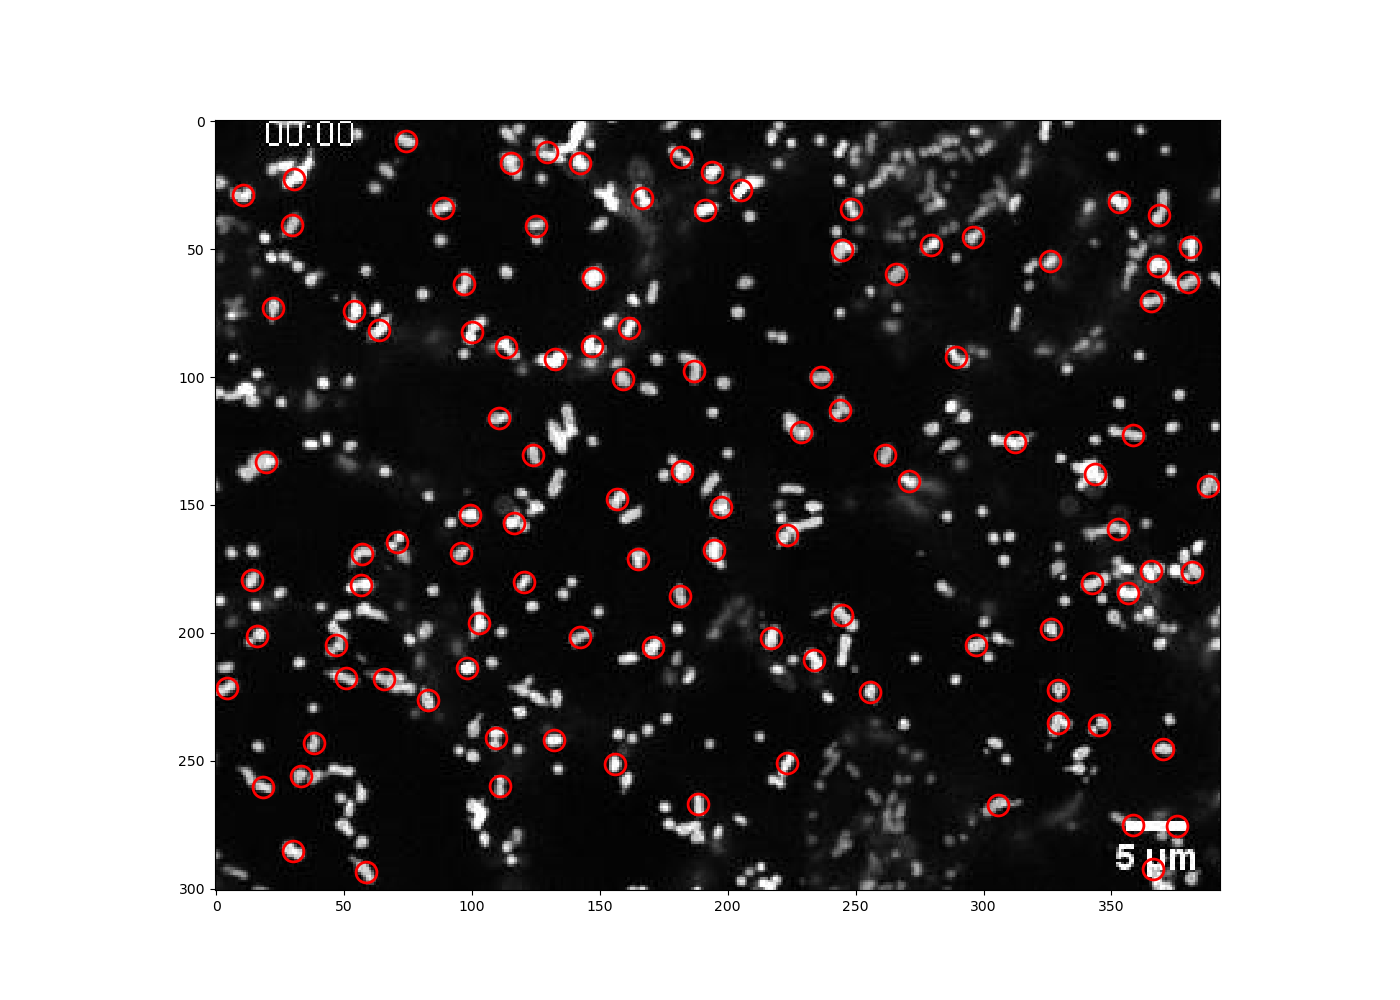
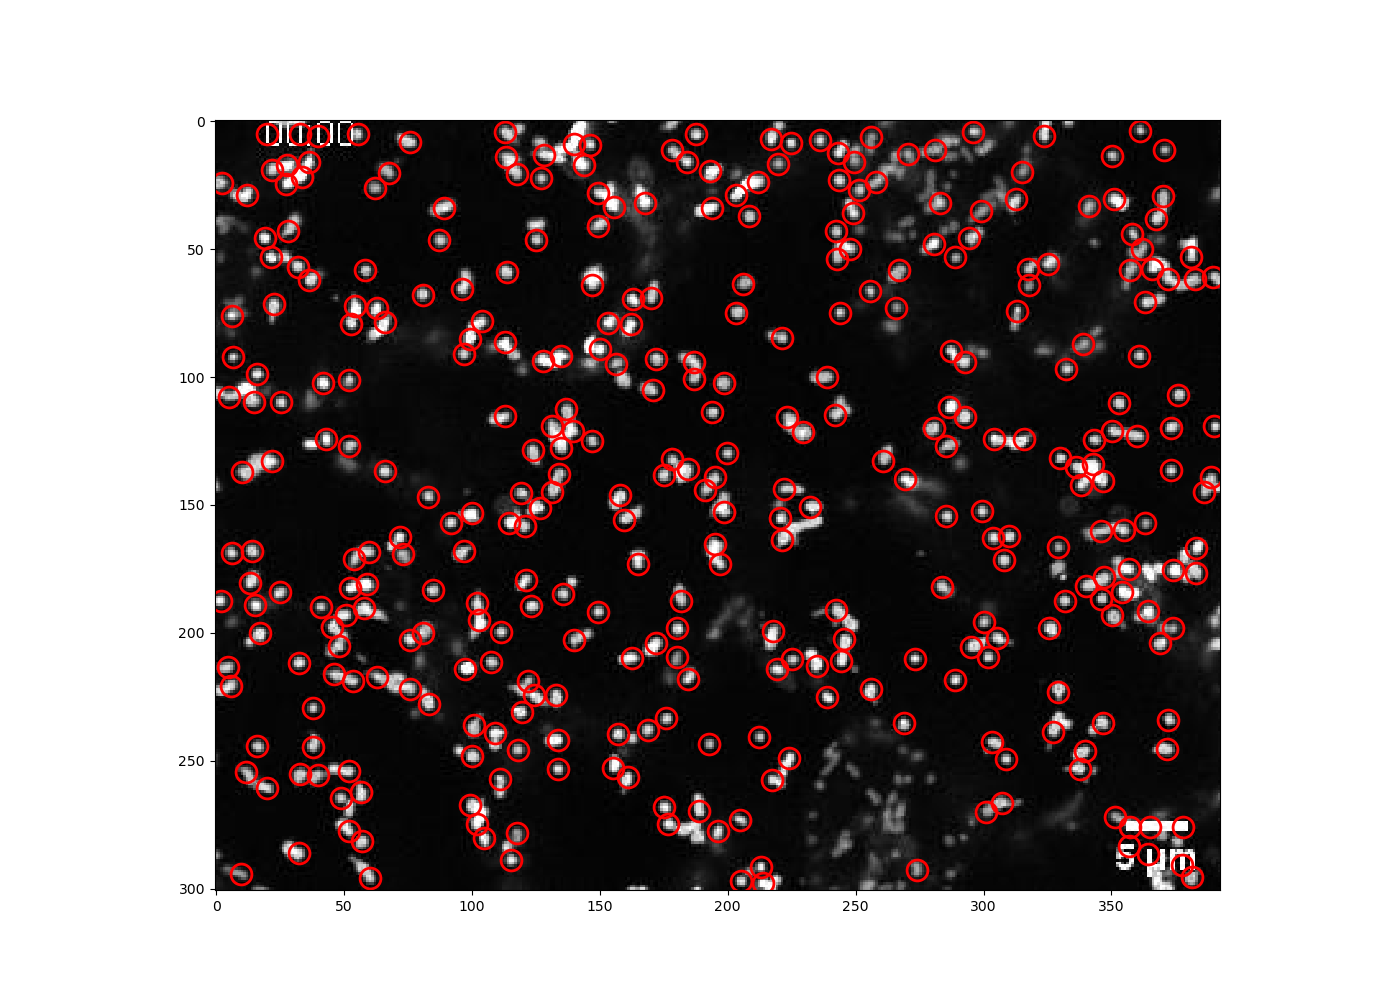
add minmass param-tunning (DONE)

diff --git a/BachelorArbeitVorlage/Kapitel/Kapitel-1/kapitel_1.tex b/BachelorArbeitVorlage/Kapitel/Kapitel-1/kapitel_1.tex
@@ -51,7 +51,7 @@ Dieser verfügt über eine reihe von Parametern, anhand derer die Qualität der 
 %    			\item maxsize: float\\
 %    			Maximaler Gyrationsradius der Helligkeit.
     			\item separation: float\\
-    			Minimaler Abstand zwischen den Partikeln.    			
+    			Minimaler Abstand zwischen den Partikeln. Der Standardwert ist \textit{diameter + 1}   			
     			\item noise\_size: float or tuple\\
     			Breite des Gaußschen Unschärfekerns, in Pixeln. Der Standardwert ist 1.
     			\item topn: interger\\
@@ -139,7 +139,7 @@ Tatsächlich lassen sich insgesamt 475 Partikeln finden, von denen ca. 121 unerw
 %    			Insgesamt lassen sich 207 Partikeln finden, von denen 22 unerwünscht waren  und 91 fehlten. Dies entspricht einer ungefähren Rate von 10,628\% für die unerwünschten und einer Rate von 43,9617\% für die nicht gefundenen.
 
     			
-    			\item \textbf{locate(f, d, minmass)}:\\ \\
+    			\item {\Large \textbf{locate(f, d, minmass)}}:\\ \\
 %    			Da ca. nur 10\% der letzten Suche unerwünschte Elemente waren, wird den Durchschnitt der \textit{minmass} aller Teilchen berechnet und als \textit{minmass} verwendet. Aus der vorherigen \textsc{Panda.Dataframe} genügt es den Mittelwert aus den Werten der \textit{mass}-Spalte zu berechnen, um auf \textit{minmass} von ca. 2490.21 zu gelangen. Das Resultat wird dann wie folgt aussehen:
 Wie bereits erwähnt, spiegelt \textit{minmass} die inhärente und eingebaute minimale Helligkeit jedes lokalisierten Partikels wider. Das Ziel ist es nun, die zuvor ermittelten, zu dunklen Partikel herauszufiltern. Daher ist es notwendig, methodisch mit dem Parameter \textit{minmass} zu spielen, um dieses Ziel zu erreichen. Es gibt natürlich mehrere Möglichkeiten, den optimalen Wert für die gesuchte Parameter zu finden. Allerdings wird hier die folgende Logik verfolgt:\\
 
@@ -149,14 +149,14 @@ Dies würde dazu führen, dass unsere dunkelsten Partikel am Ende der Liste (Tab
 
 \begin{figure}[H]
     \centering
-    \includegraphics[scale=0.35]{Grafiken/trackpyBilder/df_initial.png}
+    \includegraphics[scale=0.45]{Grafiken/trackpyBilder/df_initial.png}
     \caption{Ein Teil des initialen Dataframes}
     %\label{fig:bild_label}
 \end{figure}
 
 \begin{figure}[H]
     \centering
-    \includegraphics[scale=0.35]{Grafiken/trackpyBilder/df_sorted.png}
+    \includegraphics[scale=0.45]{Grafiken/trackpyBilder/df_sorted.png}
     \caption{Ein Teil des sortierten Dataframes}
     %\label{fig:bild_label}
 \end{figure}
@@ -166,7 +166,7 @@ Die Aufrufe sähen dann wie folgt aus:\\
 \texttt{dataframe.head(354)} \\
 \texttt{min(dataframe['mass'])}\\
 
-\textbf{189.7280490025089} ist hier das Ergebnis der vorherigen Vorgänge und damit auch den minimalen Wert von \textit{mass}, den ein Partikel haben muss. Es sei der \textit{minmass} Parameter der Funktion \textit{locate()}.
+\textbf{189.72805} ist hier das Ergebnis der vorherigen Vorgänge und damit auch den minimalen Wert von \textit{mass}, den ein Partikel haben muss. Es sei der \textit{minmass} Parameter der Funktion \textit{locate()}.
 
 
 
@@ -174,12 +174,67 @@ Die Aufrufe sähen dann wie folgt aus:\\
 \begin{figure}[H]
     \centering
     \includegraphics[scale=0.35]{Grafiken/trackpyBilder/locate_with_minmass_01.png}
-    \caption{locate with 'mimass=189.7280490025089'}
+    \caption{locate with 'mimass=189.72805'}
     %\label{fig:bild_label}
 \end{figure}
 
-		\item locate(frames[0], 11, minmass=1000.0, separation=2, noise\_size=1.5): \\ \\
-    			Hier wird es einfach Werte bei \textit{separtion} und \textit{noise\_size} ausprobiert, um auf die bessere Resultate zu kommen. Dies ergibt in diesem Fall:
+Aus diesem Bild geht hervor, dass fast alle gewünschten Partikel lokalisiert bleiben. Allerdings werden einige von ihnen doppelt gezählt, was Gegenstand der Verwendung anderer Parameter sein wird. Dennoch gibt es noch einige Partikel, die nicht lokalisiert werden sollten. Es handelt sich dabei um etwa 12 Teilchen. Es wäre daher ratsam, die \textit{minmass} schrittweise zu erhöhen, bis ein zufriedenstellendes Ergebnis erzielt wird.\\
+Zum Festlegen des Wertes, der in jedem Schritt verwendet werden soll, schauen Sie in der Tabelle (Dataframe), die mit \textit{dataframe.sort\_vaules(by=['mass'], ascending=False}) erstellt wurde, beginnend mit der 121. Zeile von unten nach oben.(121. Zeile entspricht der Anzahl der Teilchen mit geringer Helligkeit)
+
+\begin{figure}[H]
+    \centering
+    \includegraphics[scale=0.55]{Grafiken/trackpyBilder/df\_steps.png}
+    \caption{Sortierte Tabelle}
+    %\label{fig:bild_label}
+\end{figure}
+
+So werden nach und nach die Werte 197,1016 (d. h. 197), 197,6688 (d. h. 198) und so weiter verwendet.\\
+Die Verwendung der Funktion \texttt{locate(frames[0], 5, \textbf{minmass=197})} ergibt so gut wie keine Änderung der Lokalisierung. Da insgesamt immer noch 353 Partikel  erkannt wurde. Daher wird sich der nächste Versuch mit dem folgenden Wert beschäftigen. Genauer gesagt "minmass = 198". \\
+Auch hier wurden nur zwei Teilchen weniger gefunden. Das sind insgesamt 351 Partikel. Obwohl es fast unmöglich ist, diese beiden Teilchen auf dem Bild zu erkennen. 
+Es wäre klug, den nächsten Wert unserer Tabelle zu nehmen, der derzeit bei 203,6244 (also 204) liegt, und erneut zu versuchen, eine Lokalisierung durchzuführen. (Siehe )
+
+\begin{figure}[H]
+    \centering
+    \includegraphics[scale=0.35]{Grafiken/trackpyBilder/locate_with_minmass_02.png}
+    \caption{locate with 'mimass=197'}
+    %\label{fig:bild_label}
+\end{figure}
+
+
+\begin{figure}[H]
+    \centering
+    \includegraphics[scale=0.35]{Grafiken/trackpyBilder/locate_with_minmass_04(204).png}
+    \caption{locate with 'mimass=204'}
+    %\label{fig:bild_label}
+\end{figure}
+
+Bei der Verfolgung dieser Logik kommt es hier schnell auf einen \textit{minmass} Wert von \textbf{210}.\\
+Wo es deutlich zu erkennen ist, dass weitere unerwünschte Partikel nicht mit erkannt wurde. Es wurde insgesamt hier \textbf{345} Partikel gefunden. Jedoch muss es festgestellt werden, dass ab \textbf{211} nach oben, werden zwar weniger unerwünschte Partikel gefangen, aber auch erwünschte. 
+Wie es die Veranschaulichung auf Bild (Bild 212)zeigt. 
+Deswegen wird es dem weiteren  den Parameter  \textbf{Separation} gewidmet, um weitere unerwünschte zu eliminieren.
+
+\begin{figure}[H]
+    \centering
+    \includegraphics[scale=0.35]{Grafiken/trackpyBilder/locate_with_minmass_07(210).png}
+    \caption{locate with 'mimass=210'}
+    %\label{fig:bild_label}
+\end{figure}
+
+
+\begin{figure}[H]
+    \centering
+    \includegraphics[scale=0.35]{Grafiken/trackpyBilder/locate_with_minmass_08(212).png}
+    \caption{locate with 'mimass=212'}
+    %\label{fig:bild_label}
+\end{figure}
+
+
+		\item {\Large \textbf{locate(f, d, minmass, sepration)}}: \\ \\
+    			Hier wird es einfach Werte bei \texttt{separtion} ausprobiert, um auf die bessere Resultate zu kommen. 
+    			Es wäre interessant zu erwähnen, dass es sich dabei um den minimalen Abstand zwischen zwei Teilchen handelt. Der Standardwert ist Durchmesser + 1. In diesem Fall ist es 6. 
+Mit diesem neuen Parameter werden wir versuchen, all jene Partikel zu eliminieren, die doppelt erkannt werden. Ohne die Qualität der bisherigen Erkennung zu beeinträchtigen.  
+
+Denn es scheint offensichtlich, dass, wenn der Wert zu hoch ist, mehrere bisher erkannte Partikel nicht mehr erkannt werden. Weil sie zu nahe beieinander liegen.
     			
 \begin{figure}[H]
     \centering
